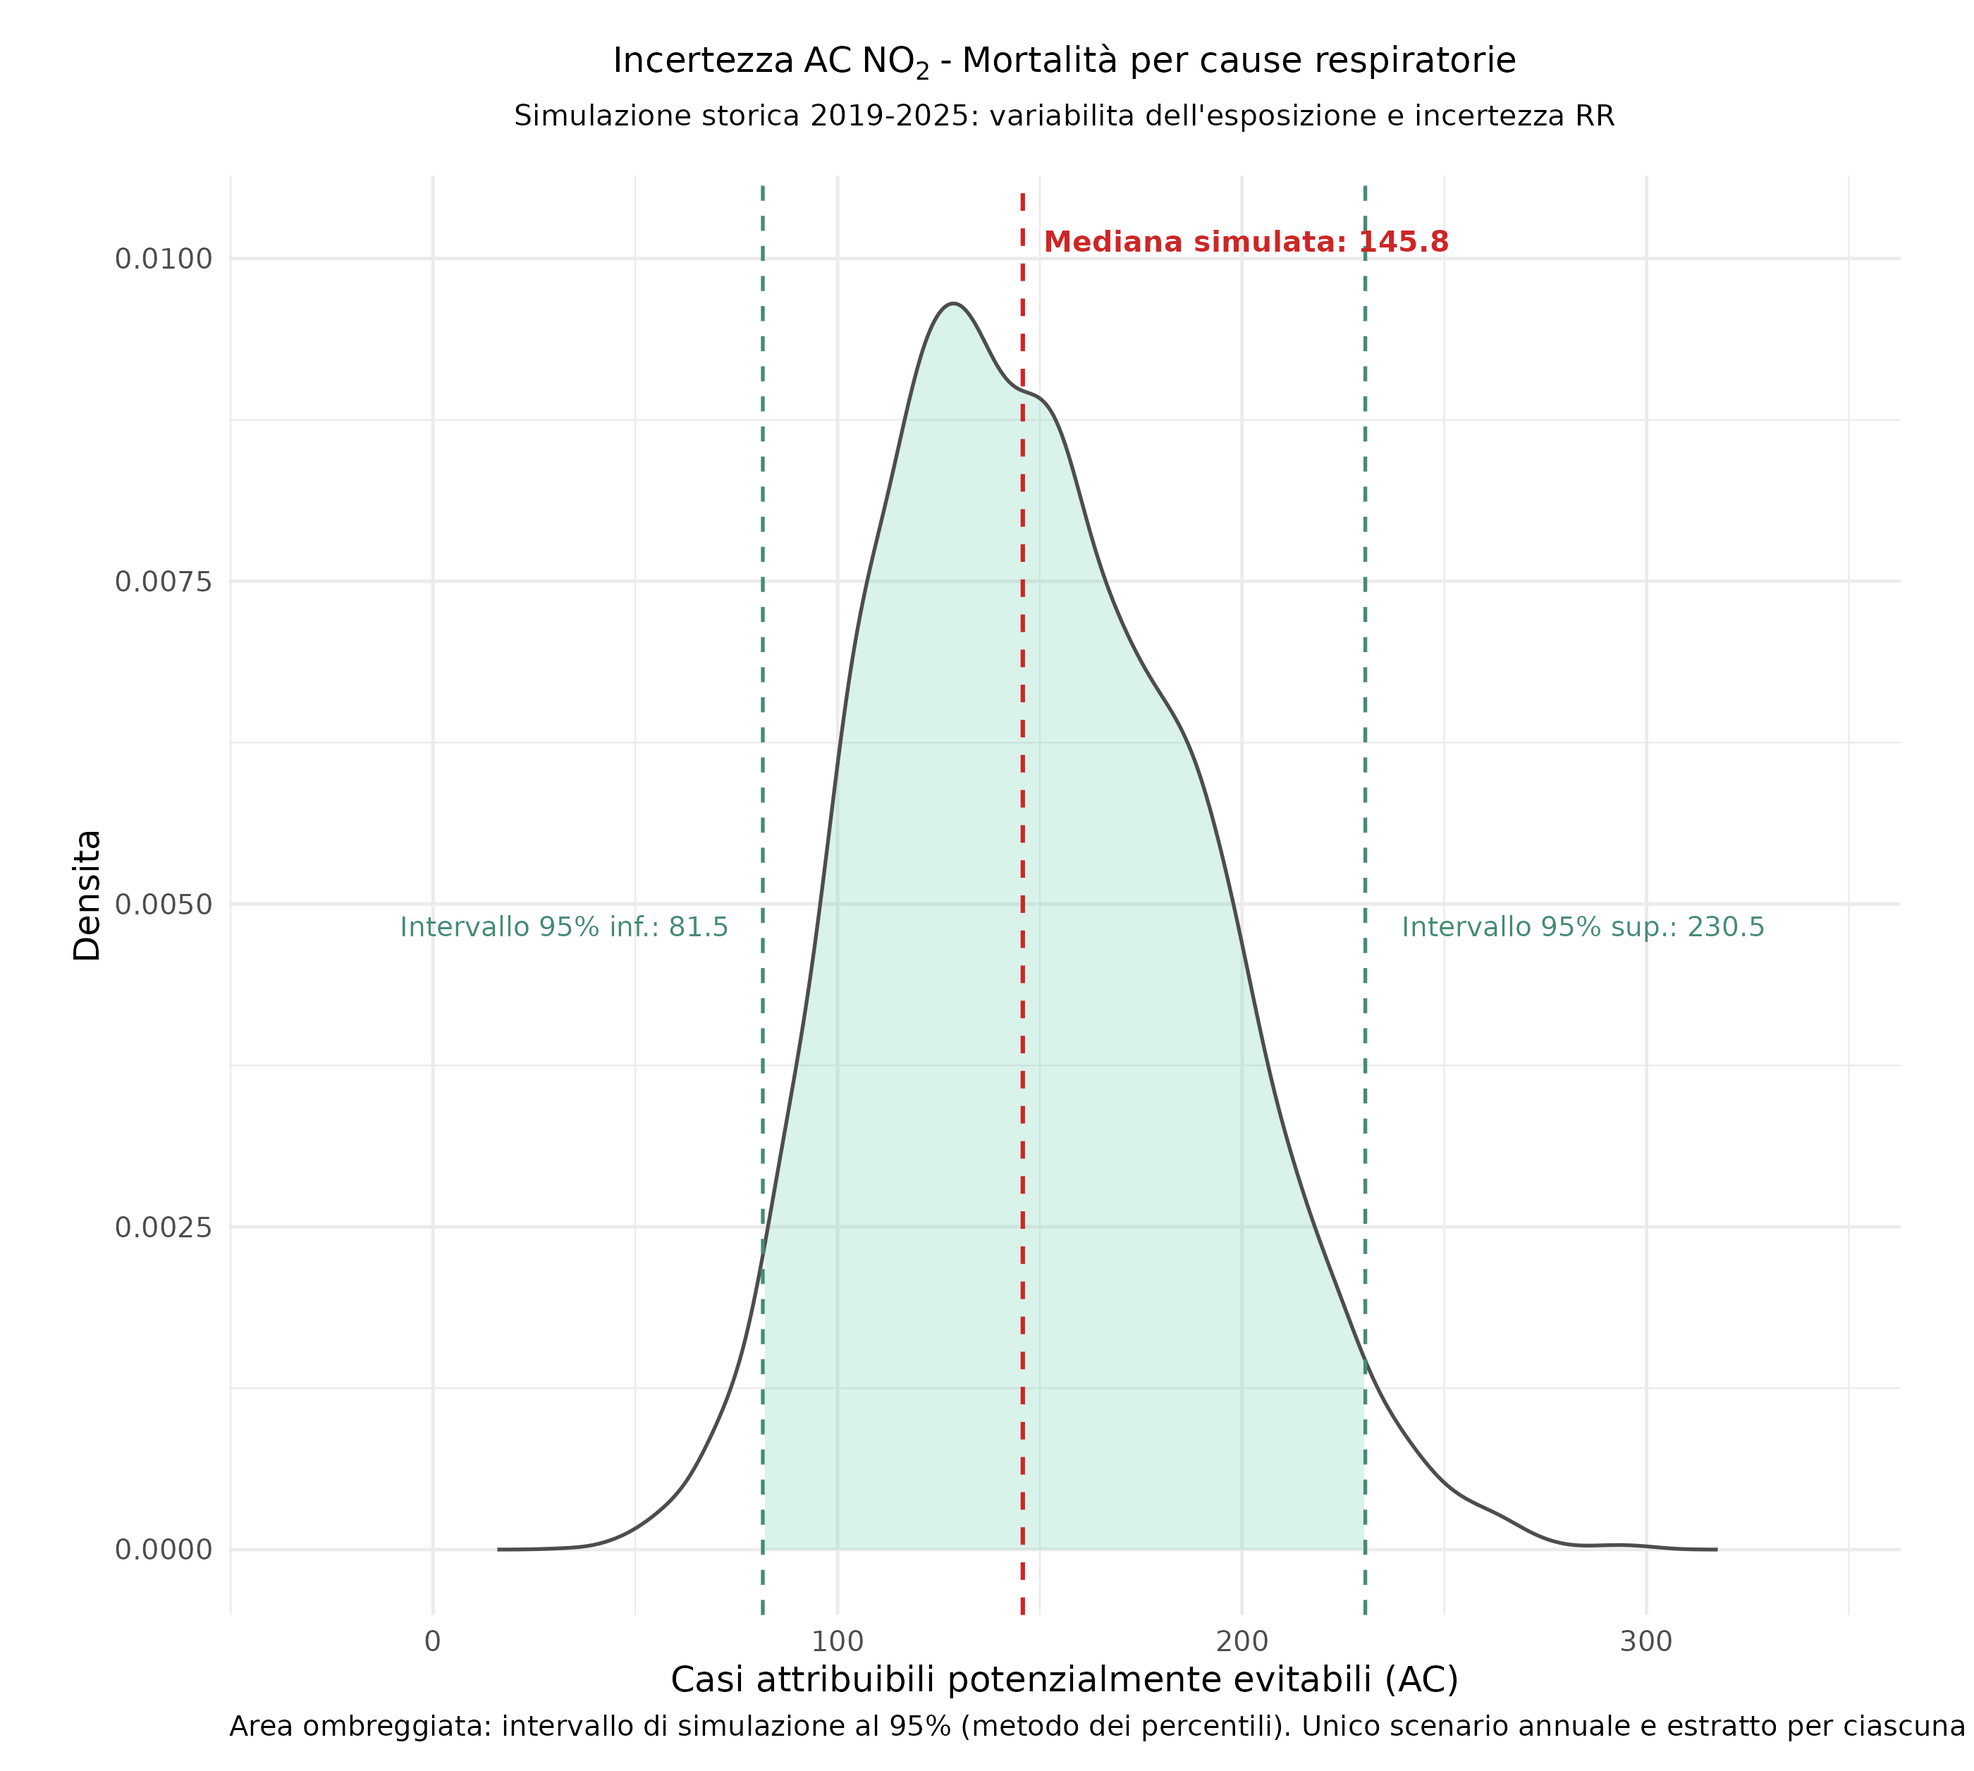
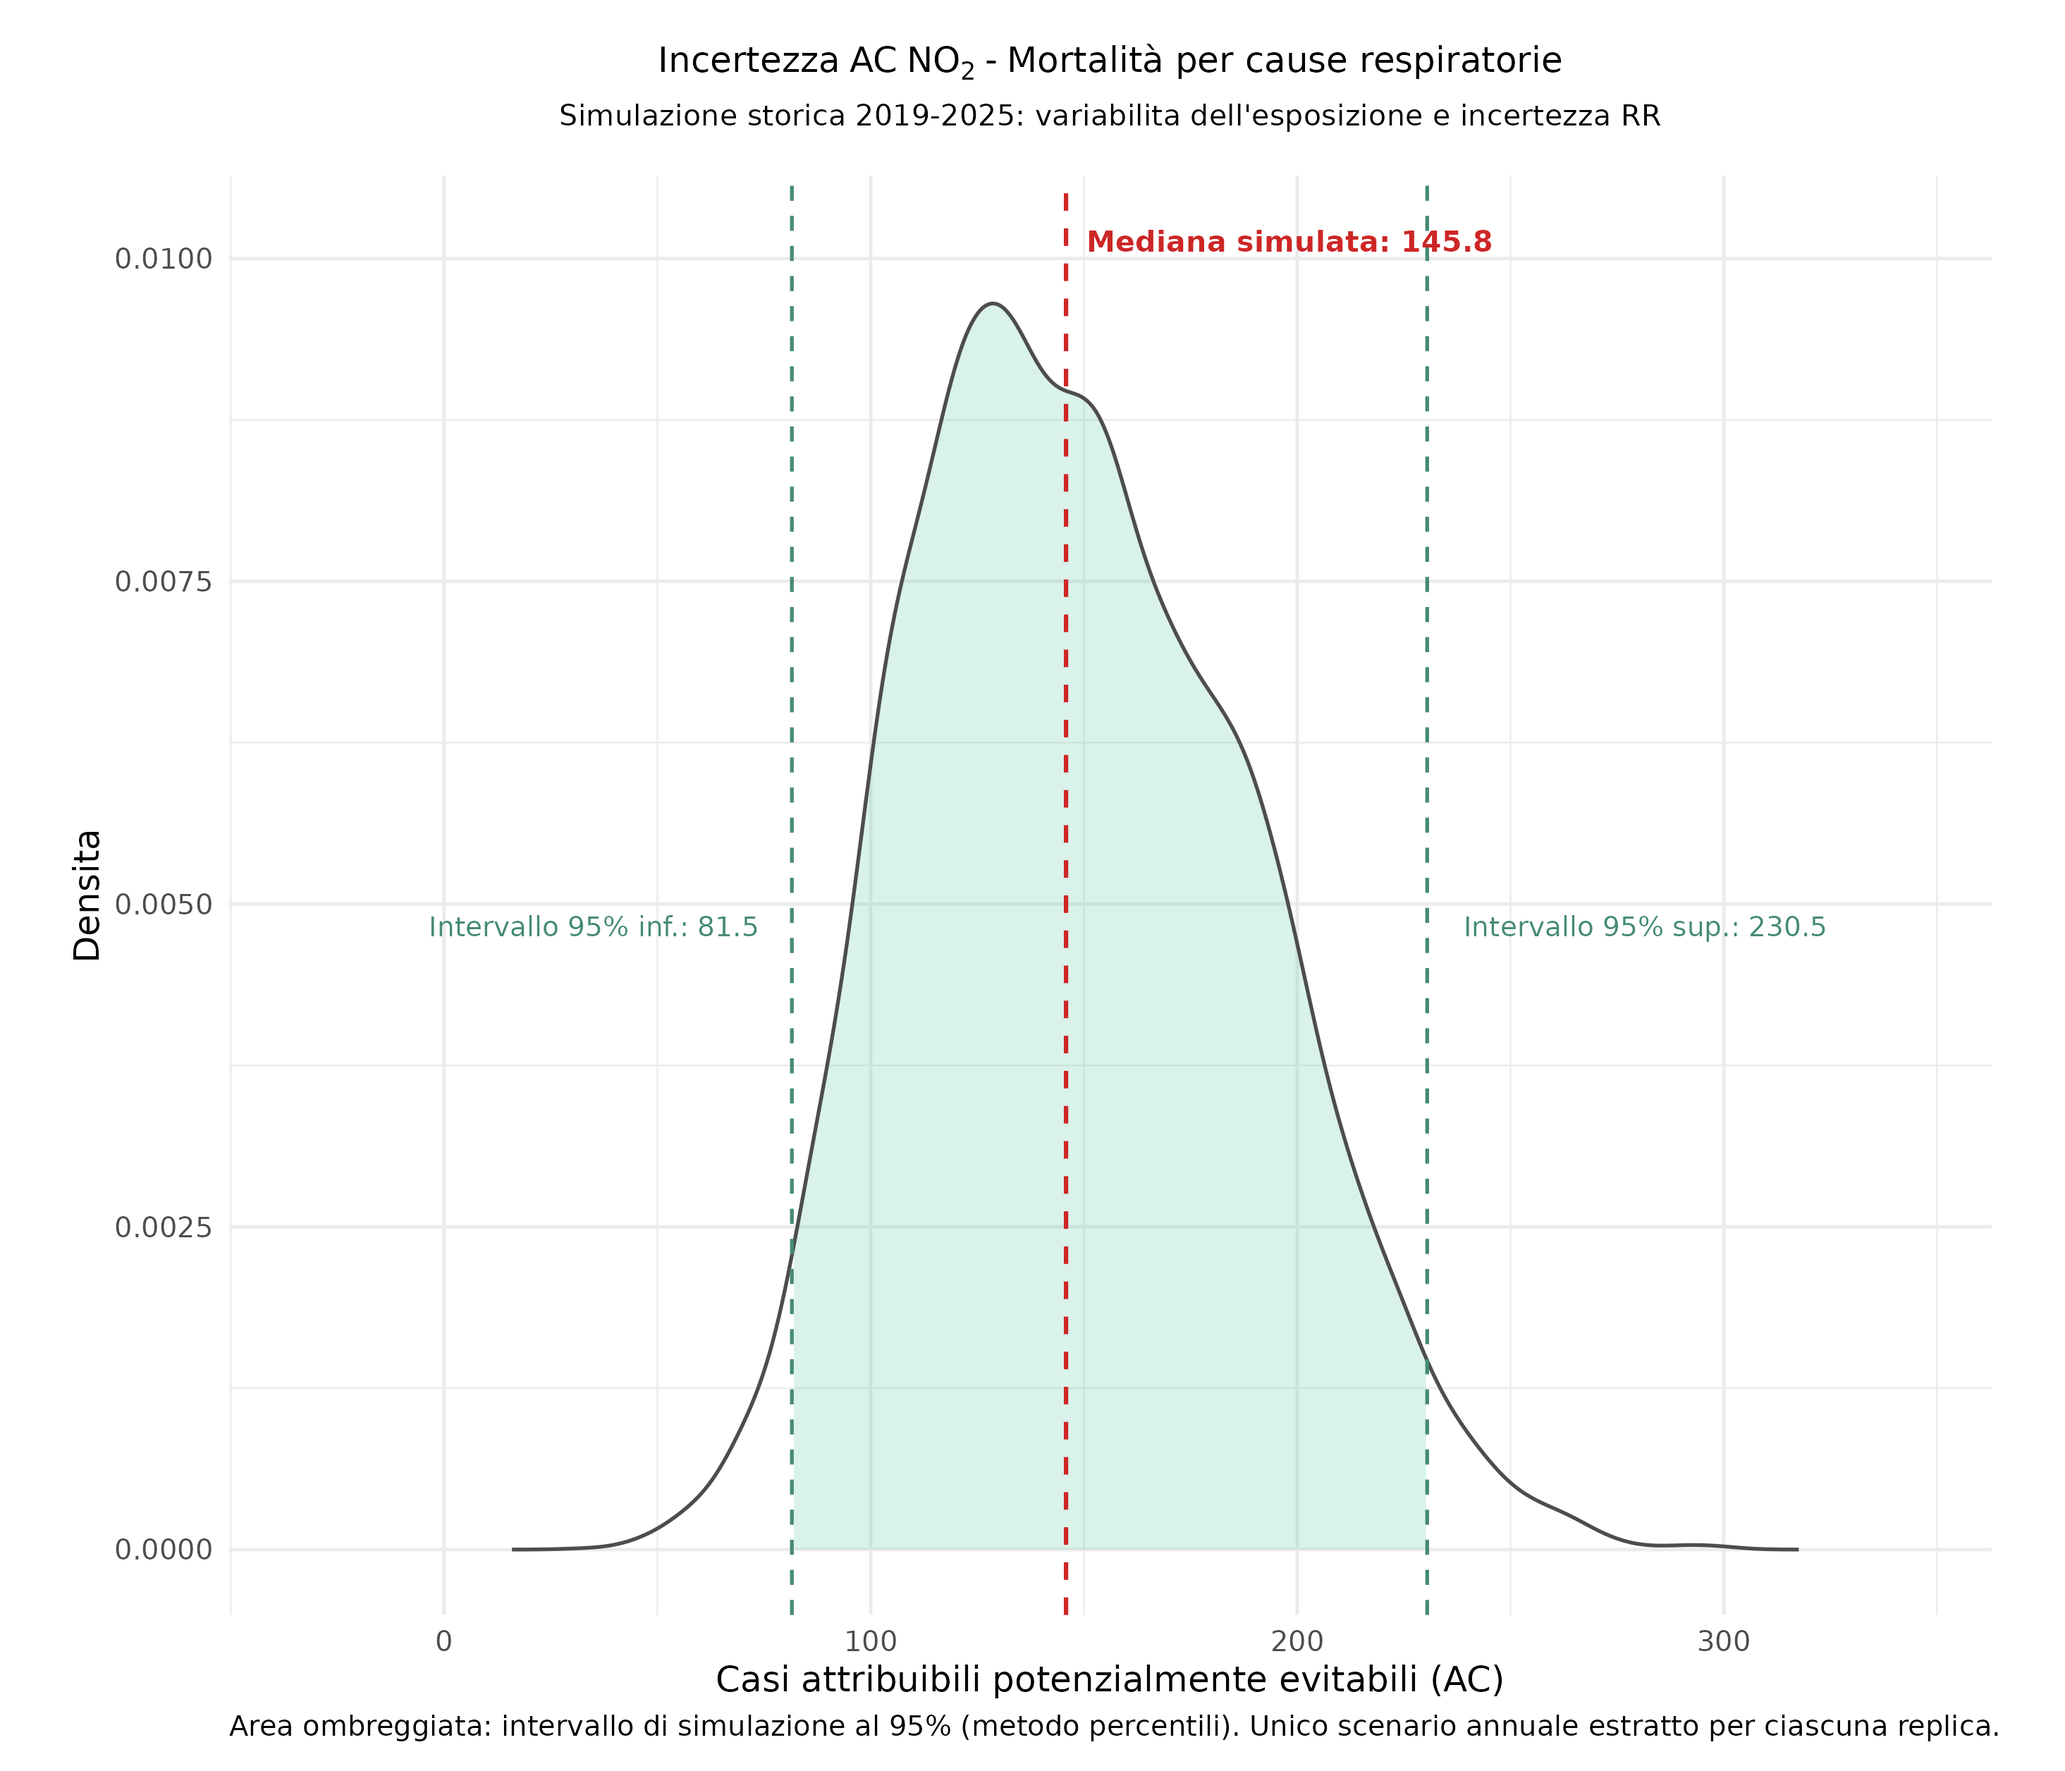
rev scss

diff --git a/theme_custom/custom.scss b/theme_custom/custom.scss
@@ -867,3 +867,24 @@ html.print-pdf .reveal .slides section.columns-max .columns > .column img {
 .reveal .slides section .formula p {
   font-size: var(--formula-size, 28px);
 }
+
+/* ==========================================================================
+   EVIDENZIAZIONE SELETTIVA RIGHE TABELLE
+   ========================================================================== */
+
+.reveal .slides .tabella-highlight tbody tr {
+  -webkit-print-color-adjust: exact;
+  print-color-adjust: exact;
+}
+
+/* Genera classi .riga-1 ... .riga-30 */
+@for $i from 1 through 30 {
+  .reveal .slides .tabella-highlight.riga-#{$i} tbody tr:nth-child(#{$i}) {
+    background-color: rgba(200, 30, 30, 0.12) !important;
+    font-weight: 700;
+  }
+
+  .reveal .slides .tabella-highlight.riga-#{$i} tbody tr:nth-child(#{$i}) td:first-child {
+    border-left: 4px solid $col-red !important;
+  }
+}
